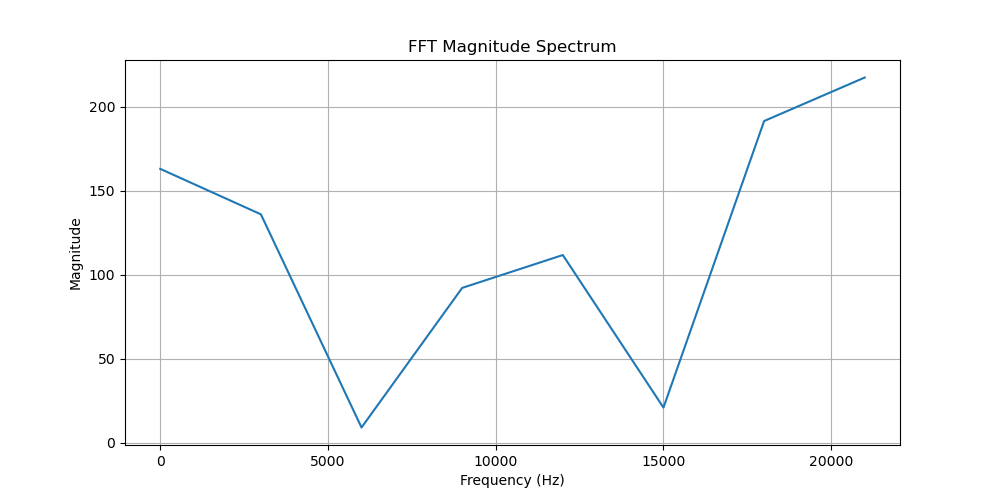
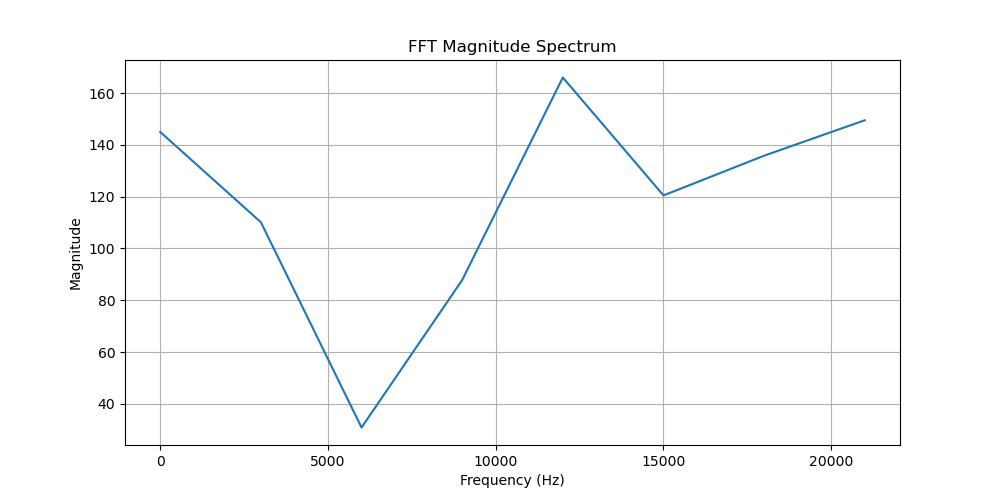
demo updates

diff --git a/src/drop_unit/sp25_demo/sp25_demo.py b/src/drop_unit/sp25_demo/sp25_demo.py
@@ -24,17 +24,15 @@ import numpy as np
 NUM_BITS = 16
 FFT_ARRAY_SIZE = 32
 
-DROP_RATE = 20
+DROP_RATE = 10
 
 raw_bytes = wav_to_q8_8_messages("input.wav", 0)
 raw_bytes = raw_bytes[:len(raw_bytes)//(DROP_RATE * FFT_ARRAY_SIZE) * (DROP_RATE * FFT_ARRAY_SIZE) - 1]
-raw_bytes = raw_bytes[:6399]
-print("raw bytes")
-print(raw_bytes[0:32])
-downsampled_bytes = drop_bytes(raw_bytes, DROP_RATE)
+
+dropped_bytes = drop_bytes(raw_bytes, DROP_RATE)
+# resampled_bytes = resample(raw_bytes, len(raw_bytes)//DROP_RATE)
 
 fft_outputs = []
-
 
 def int_to_twos_complement(value, num_bits=NUM_BITS):
     if value < 0:
@@ -43,34 +41,27 @@ def int_to_twos_complement(value, num_bits=NUM_BITS):
 
 
 def analyze_real_fft_output(fft_out: list, is_external: int):
-    """
-    Analyze the real part of the FFT output and compare to frequency bins.
-    
-    Args:
-        fft_out (list of Fixed): FFT output with only real parts (Fixed(16,8)).
-        sample_rate (float): Sampling rate of the original signal.
-    """
-    n = len(fft_out)  # Number of FFT points
+    n = len(fft_out)
 
-    freqs = np.fft.fftfreq(n, d=1/(96000/DROP_RATE))  # frequency bins
+    freqs = np.fft.fftfreq(n, d=1/(96000/DROP_RATE))
     magnitudes = []
-
+    
     for c in fft_out:
         real = c.real.get(True) / (1 << 8)
-        #imag = c.imag.get(True) / (1 << 8)
-        #mag = (real**2 + imag**2)**0.5
+        imag = c.imag.get(True) / (1 << 8)
+        mag = (real**2 + imag**2)**0.5
         magnitudes.append(real)
 
     plt.figure(figsize=(10, 5))
-    plt.plot(freqs[:n//2], magnitudes[:n//2])  # Only positive frequencies
+    plt.plot(freqs[:n//2], magnitudes[:n//2])
     plt.title("FFT Magnitude Spectrum")
     plt.xlabel("Frequency (Hz)")
     plt.ylabel("Magnitude")
     plt.grid(True)
     if(is_external == 1):
-        plt.savefig(f"external_bins{DROP_RATE}.png")
+        plt.savefig(f"figures/external_bins{DROP_RATE}.png")
     else:
-        plt.savefig(f"bins{DROP_RATE}.png")
+        plt.savefig(f"figures/bins{DROP_RATE}.png")
 
 
 @cocotb.test()
@@ -104,102 +95,14 @@ async def demo_check_drop(dut):
         
         if dut.drop_unit.resp_val.value == 1:
             av = BinaryValue(n_bits=NUM_BITS, binaryRepresentation=2)
-            av.binstr = int_to_twos_complement(downsampled_bytes[i//DROP_RATE])
+            av.binstr = int_to_twos_complement(dropped_bytes[i//DROP_RATE])
             assert dut.drop_unit.resp_msg.value == av
         if dut.resp_val.value == 1:
             fft_outputs.append(CFixed(v=(dut.resp_msg.value.integer, 0), n=NUM_BITS, d=8, raw=True))
 
     analyze_real_fft_output(fft_outputs[0:16], 0)
-    print(fft_outputs[0:16])
 
-
-'''
-EXTERNAL MODEL
-'''
-
-def wav_to_q8_8_external(filename: str, target_rate: int) -> bytes:
-    # 1)–3) same as before: open, read, channel‑mix, resample…
-    with wave.open(filename, "rb") as wf:
-        orig_rate = wf.getframerate()
-        n_channels = wf.getnchannels()
-        sampwidth = wf.getsampwidth()
-        n_frames = wf.getnframes()
-        # Read all raw bytes for all channels and frames
-        raw = wf.readframes(n_frames * n_channels)
-
-    # Process raw bytes based on sample width
-    if sampwidth == 3:
-        # Handle 24-bit audio (3 bytes)
-        raw_bytes = np.frombuffer(raw, dtype=np.uint8)
-        if raw_bytes.size % 3 != 0:
-            raise ValueError(
-                f"Raw data size {raw_bytes.size} is not divisible by 3 for 24-bit audio."
-            )
-
-        num_samples_total = raw_bytes.size // 3
-        reshaped_bytes = raw_bytes.reshape(num_samples_total, 3)
-
-        # Convert 3 bytes (little-endian) to signed int32
-        samples_int32 = np.empty(num_samples_total, dtype=np.int32)
-        samples_int32[:] = reshaped_bytes[:, 0]  # LSB
-        samples_int32 |= reshaped_bytes[:, 1].astype(np.int32) << 8
-        samples_int32 |= reshaped_bytes[:, 2].astype(np.int32) << 16  # MSB
-
-        # Sign extend negative values (check MSB of the third byte)
-        negative_mask = reshaped_bytes[:, 2] >= 0x80
-        # Fill the most significant byte with 1s for negative numbers
-        samples_int32[negative_mask] |= np.int32(~0xFFFFFF)  # or np.int32(0xFF000000)
-
-        # Assign the processed samples and set dtype for downstream consistency
-        samples = samples_int32
-        dtype = np.int32
-        # Calculate n_frames based on the total samples and channels
-        n_frames = num_samples_total // n_channels
-
-    elif sampwidth in [1, 2, 4]:
-        # Handle standard sample widths
-        dtype_map = {1: np.uint8, 2: np.int16, 4: np.int32}
-        dtype = dtype_map[sampwidth]
-        # Convert raw bytes to samples using the appropriate dtype
-        samples = np.frombuffer(raw, dtype=dtype)
-        # Calculate n_frames based on the total samples and channels
-        n_frames = len(samples) // n_channels
-    else:
-        raise ValueError(f"Unsupported sample width: {sampwidth}")
-
-    if n_channels > 1:
-        # Reshape requires the total number of samples to be divisible by n_channels
-        if samples.size % n_channels != 0:
-            raise ValueError(
-                f"Total samples {samples.size} not divisible by number of channels {n_channels}."
-            )
-        samples = samples.reshape(-1, n_channels).mean(axis=1).astype(dtype)
-        print(samples[0:32])
-    if orig_rate != target_rate:
-        new_len = int(len(samples) * target_rate / orig_rate)
-        samples = resample(samples, new_len)
-
-    # 4) Normalize to –1..+1
-    '''
-    if np.issubdtype(dtype, np.integer):
-        max_val = float(2 ** (8 * sampwidth - 1))
-        samples = samples.astype(np.float32) / max_val
-    else:
-        samples = samples.astype(np.float32)
-    samples = np.clip(samples, -1.0, 1.0)
-    '''
-
-    # 5) Convert to Q8.8 fixed‑point (signed 16‑bit, 8 frac bits)
-    #    multiply by 2^8, round, cast to int16
-    fixed = np.round(samples * (1 << 8)).astype(np.int16)
-
-    # return raw little‑endian bytes, or list(fixed) for Python ints
-    return fixed.tolist()
-
-external_raw_bytes = wav_to_q8_8_external("input.wav", (96000/DROP_RATE))
-external_raw_bytes = external_raw_bytes[0:32]
-
-model = FFTPease(16, 8, 32)
-golden = model.transform([CFixed(v=(s, 0), n=16, d=8) for s in external_raw_bytes])
-fixed_outputs = [Fixed(x.real, True, 16, 8) for x in golden]
-analyze_real_fft_output(golden[0:16], 1)
+# model = FFTPease(16, 8, 32)
+# golden = model.transform([CFixed(v=(s, 0), n=16, d=8) for s in resampled_bytes[:32]])
+# fixed_outputs = [Fixed(x.real, True, 16, 8) for x in golden]
+# analyze_real_fft_output(golden[0:16], 1)
